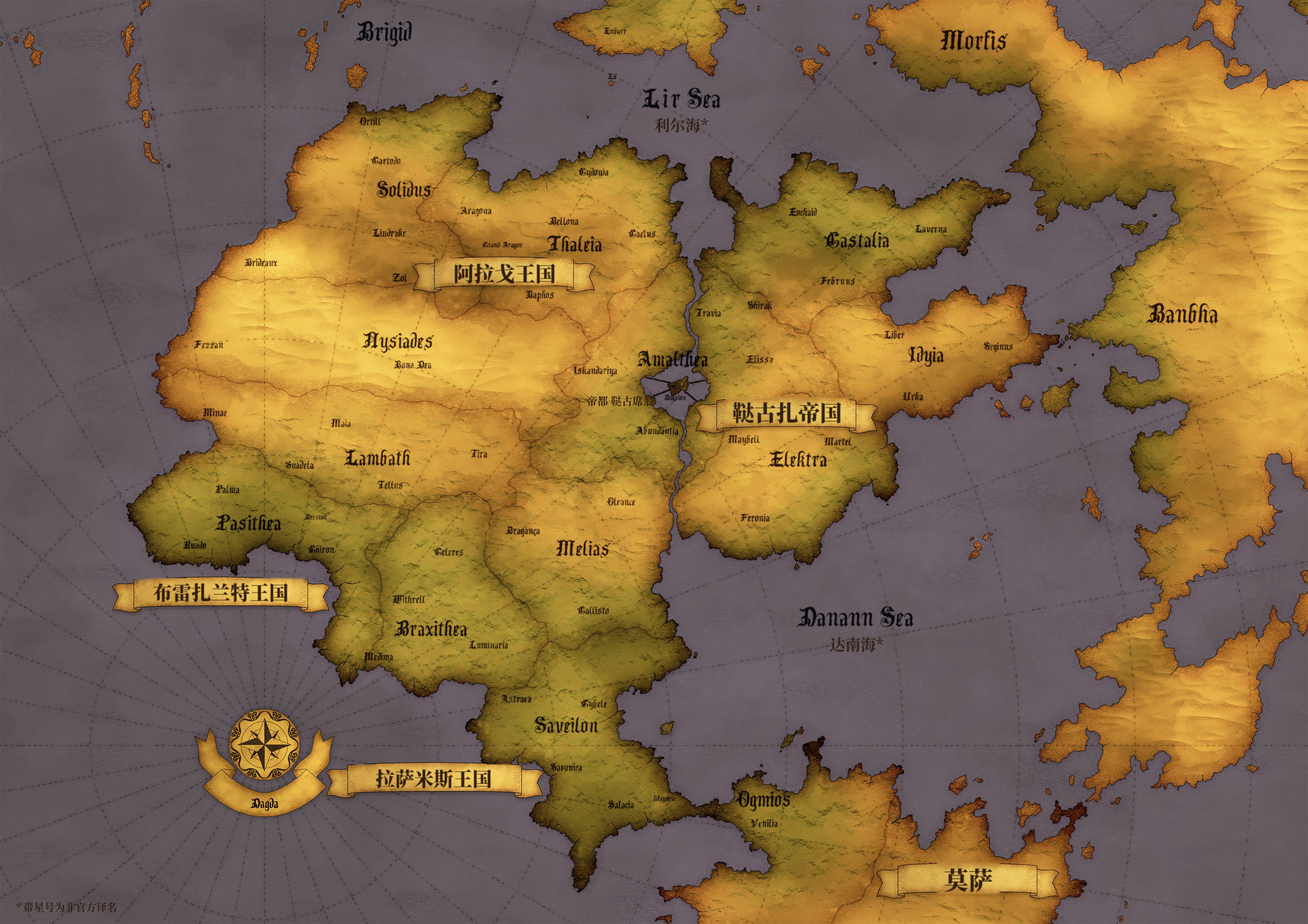
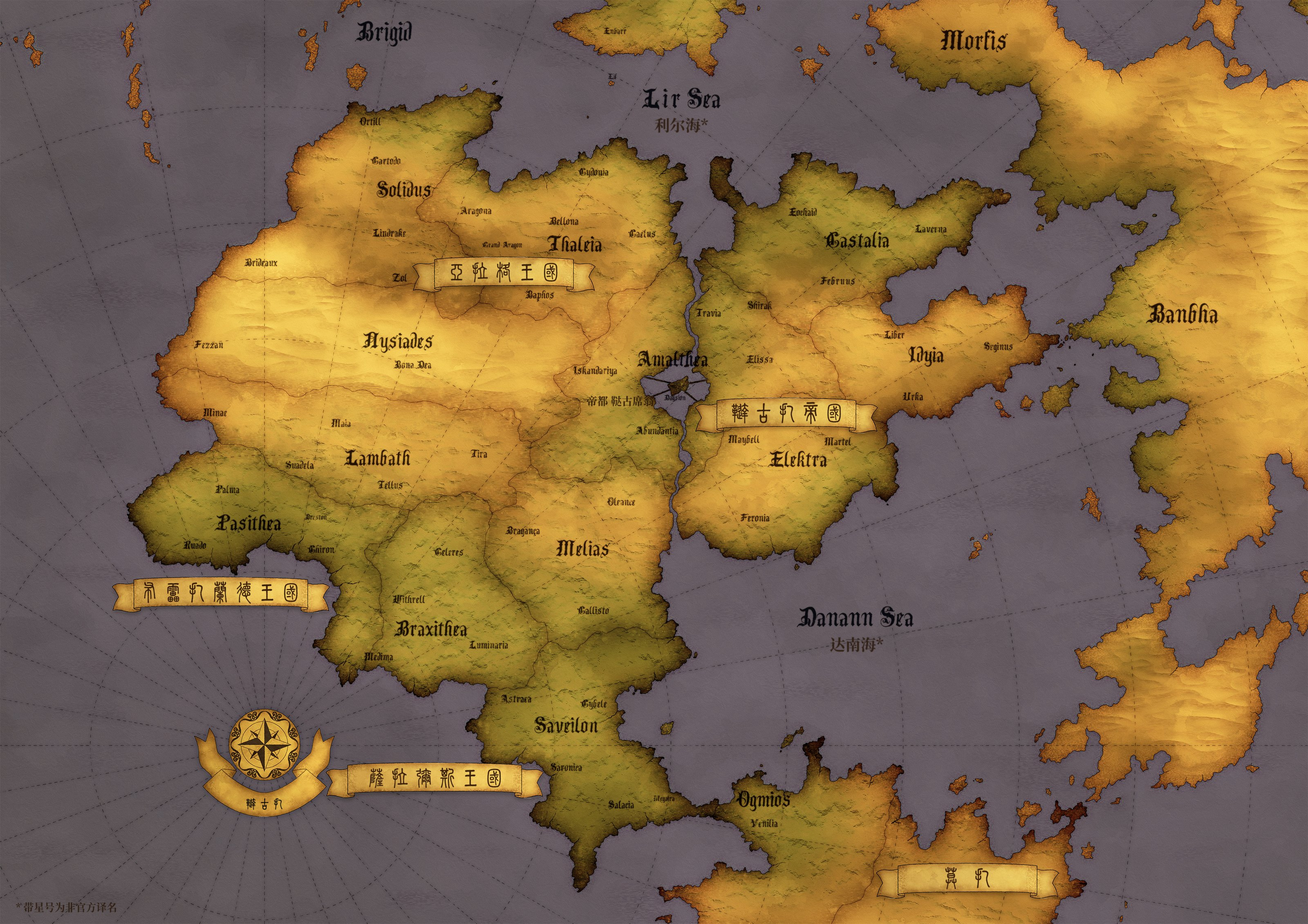
Add files via upload

diff --git a/index.html b/index.html
@@ -269,7 +269,7 @@ mark{background:color-mix(in srgb,var(--accent2) 45%,transparent);color:inherit;
 </aside>
 <main>
   <div class="topbar">
-    <div class="search"><span aria-hidden="true">⌕</span><input id="q" placeholder="搜索问答和笔记，例如：拉萨米斯、蕾达"></div>
+    <div class="search"><span aria-hidden="true">⌕</span><input id="q" placeholder="搜索问答和笔记，例如：萨拉弥斯、蕾达"></div>
   </div>
 
   <section class="page" id="p-home">
